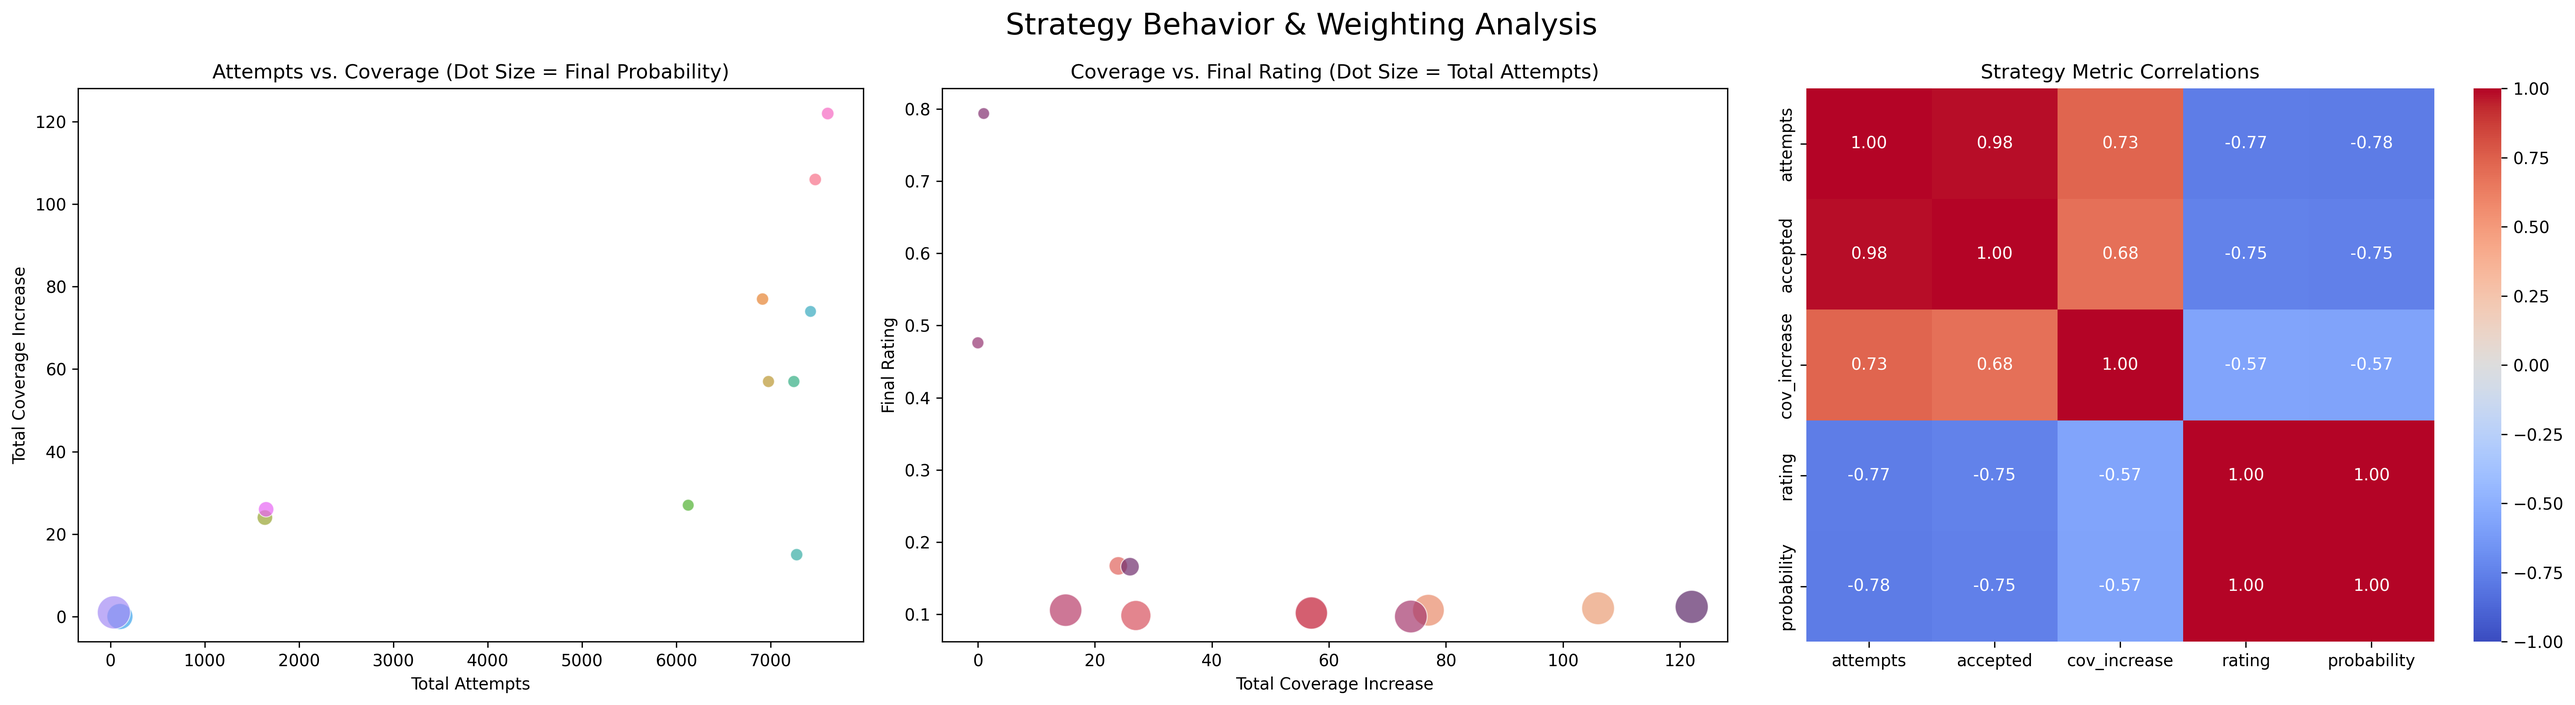
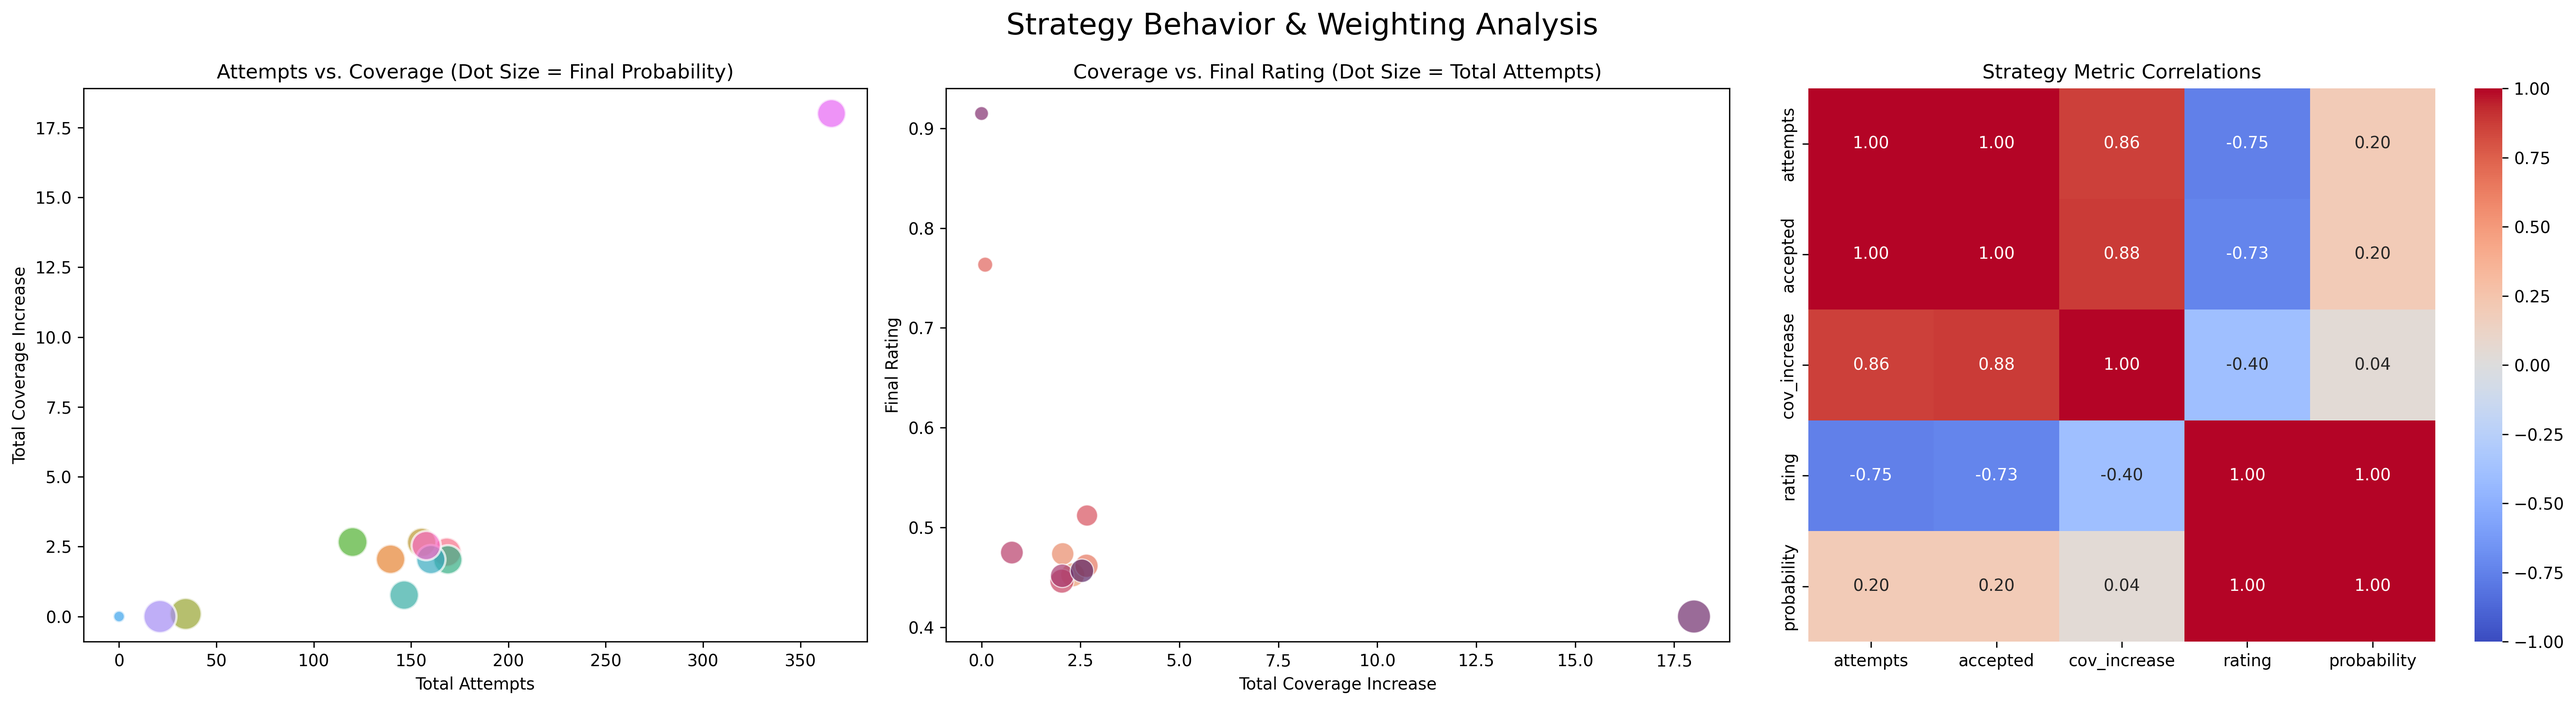
upodate some stuff

diff --git a/crates/lsf-engine/src/engine.rs b/crates/lsf-engine/src/engine.rs
@@ -5,7 +5,10 @@ use std::{
     io::{self, Read},
     ops::RangeBounds,
     path::PathBuf,
-    sync::{Arc, atomic::AtomicU64},
+    sync::{
+        Arc,
+        atomic::{AtomicU32, AtomicU64},
+    },
 };
 
 use lsf_core::{
@@ -27,6 +30,7 @@ pub struct Engine {
     strategies: Vec<Box<dyn MutationStrategy>>,
     rng: SmallRng,
     total_mutations: Arc<AtomicU64>,
+    epoch: Arc<AtomicU32>,
 }
 
 impl Debug for Engine {
@@ -46,8 +50,10 @@ impl Engine {
         rng_seed: u64,
     ) -> Self {
         let total_mutations: Arc<std::sync::atomic::AtomicU64> = Arc::default();
+        let epoch: Arc<std::sync::atomic::AtomicU32> = Arc::default();
         scheduler.init(crate::SchedulerContext {
             total_attempts: total_mutations.clone(),
+            epoch: epoch.clone(),
         });
         Self {
             scheduler,
@@ -56,12 +62,14 @@ impl Engine {
             shmem_queue,
             rng: SmallRng::seed_from_u64(rng_seed),
             total_mutations,
+            epoch,
         }
     }
 
     pub fn with_scheduler(mut self, mut scheduler: Box<dyn Schedule>) -> Self {
         scheduler.init(crate::SchedulerContext {
             total_attempts: self.total_mutations.clone(),
+            epoch: self.epoch.clone(),
         });
         self.scheduler = scheduler;
         self
@@ -74,6 +82,7 @@ impl Engine {
     pub fn add_strategy(&mut self, mut strategy: Box<dyn MutationStrategy>) {
         strategy.init(lsf_mutate::StrategyContext {
             total_attempts: self.total_mutations.clone(),
+            epoch: self.epoch.clone(),
         });
         self.strategies.push(strategy);
     }
@@ -120,6 +129,9 @@ impl Engine {
             generation.members.len() as f64,
             std::sync::atomic::Ordering::Relaxed,
         );
+
+        self.epoch
+            .fetch_add(1, std::sync::atomic::Ordering::Relaxed);
 
         self.decay();
 

diff --git a/crates/lsf-engine/src/schedule.rs b/crates/lsf-engine/src/schedule.rs
@@ -2,7 +2,7 @@ use std::{
     collections::HashMap,
     sync::{
         Arc,
-        atomic::{AtomicU64, Ordering},
+        atomic::{AtomicU32, AtomicU64, Ordering},
     },
 };
 
@@ -52,6 +52,7 @@ pub trait Schedule: Send + Sync {
 #[derive(Clone, Default)]
 pub struct SchedulerContext {
     pub total_attempts: Arc<AtomicU64>,
+    pub epoch: Arc<AtomicU32>,
 }
 
 #[derive(Default)]
@@ -228,6 +229,7 @@ impl Hookable for AdaptiveWeightedRandomScheduler {
             .unzip();
 
         SchedulerStatisticsSnapshot {
+            epoch: self.ctx.epoch.load(Ordering::Relaxed),
             global_attempts: Some(self.ctx.total_attempts.load_f64(Ordering::Relaxed)),
             name: "AdaptiveWeightedRandomScheduler".into(),
             meta: ids.into_iter().map(|id| format!("Entry_{}", id)).collect(),

diff --git a/crates/lsf-ffi/src/engine.rs b/crates/lsf-ffi/src/engine.rs
@@ -173,6 +173,8 @@ impl GenericHook for SchedulerHook__ {
 #[derive(Debug, Default, Clone, PartialEq)]
 pub struct SchedulerSnapshot {
     #[pyo3(get)]
+    pub epoch: u32,
+    #[pyo3(get)]
     pub global_attempts: Option<f64>,
     #[pyo3(get)]
     pub name: String,
@@ -197,6 +199,7 @@ pub struct SchedulerSnapshot {
 impl From<SchedulerStatisticsSnapshot> for SchedulerSnapshot {
     fn from(value: SchedulerStatisticsSnapshot) -> Self {
         Self {
+            epoch: value.epoch,
             global_attempts: value.global_attempts,
             name: value.name,
             meta: value.meta,

diff --git a/python/tester/tb_logger.py b/python/tester/tb_logger.py
@@ -95,7 +95,7 @@ async def csv_logger(
         for s in strategy_stats:
             strategy_writer.writerow(
                 [
-                    s.global_attempts,
+                    s.epoch,
                     s.name,
                     s.self_attempts[0],
                     s.accepted[0],
@@ -111,7 +111,7 @@ async def csv_logger(
             ):
                 scheduler_writer.writerow(
                     [
-                        s.global_attempts,
+                        s.epoch,
                         id,
                         attempts,
                         accepted,

diff --git a/crates/lsf-mutate/src/schedule.rs b/crates/lsf-mutate/src/schedule.rs
@@ -207,6 +207,7 @@ impl PartialEq for StrategySchedulerStats {
 impl Hookable for AdaptiveStrategyScheduler {
     fn snapshot(&self) -> lsf_feedback::SchedulerStatisticsSnapshot {
         lsf_feedback::SchedulerStatisticsSnapshot {
+            epoch: self.ctx.epoch.load(Ordering::Relaxed),
             global_attempts: Some(self.stats.total_attempts.load_f64(Ordering::Relaxed)),
             name: format!("{:?}", self),
             meta: Vec::new(),

diff --git a/crates/lsf-mutate/src/lib.rs b/crates/lsf-mutate/src/lib.rs
@@ -1,6 +1,9 @@
 use std::{
     fmt::Debug,
-    sync::{Arc, atomic::AtomicU64},
+    sync::{
+        Arc,
+        atomic::{AtomicU32, AtomicU64},
+    },
 };
 
 use lsf_core::entry::{ID, RawEntry};
@@ -48,6 +51,7 @@ pub trait MutationStrategy: Send + Sync + Debug {
 #[derive(Clone, Default)]
 pub struct StrategyContext {
     pub total_attempts: Arc<AtomicU64>,
+    pub epoch: Arc<AtomicU32>,
 }
 
 #[derive(Debug, PartialEq, Eq, Clone)]

diff --git a/crates/lsf-feedback/src/stats.rs b/crates/lsf-feedback/src/stats.rs
@@ -7,6 +7,7 @@ pub trait AdaptiveStatistics {
 
 #[derive(Debug, Default, Clone, PartialEq)]
 pub struct SchedulerStatisticsSnapshot {
+    pub epoch: u32,
     pub global_attempts: Option<f64>,
     pub name: String,
     pub meta: Vec<String>,
